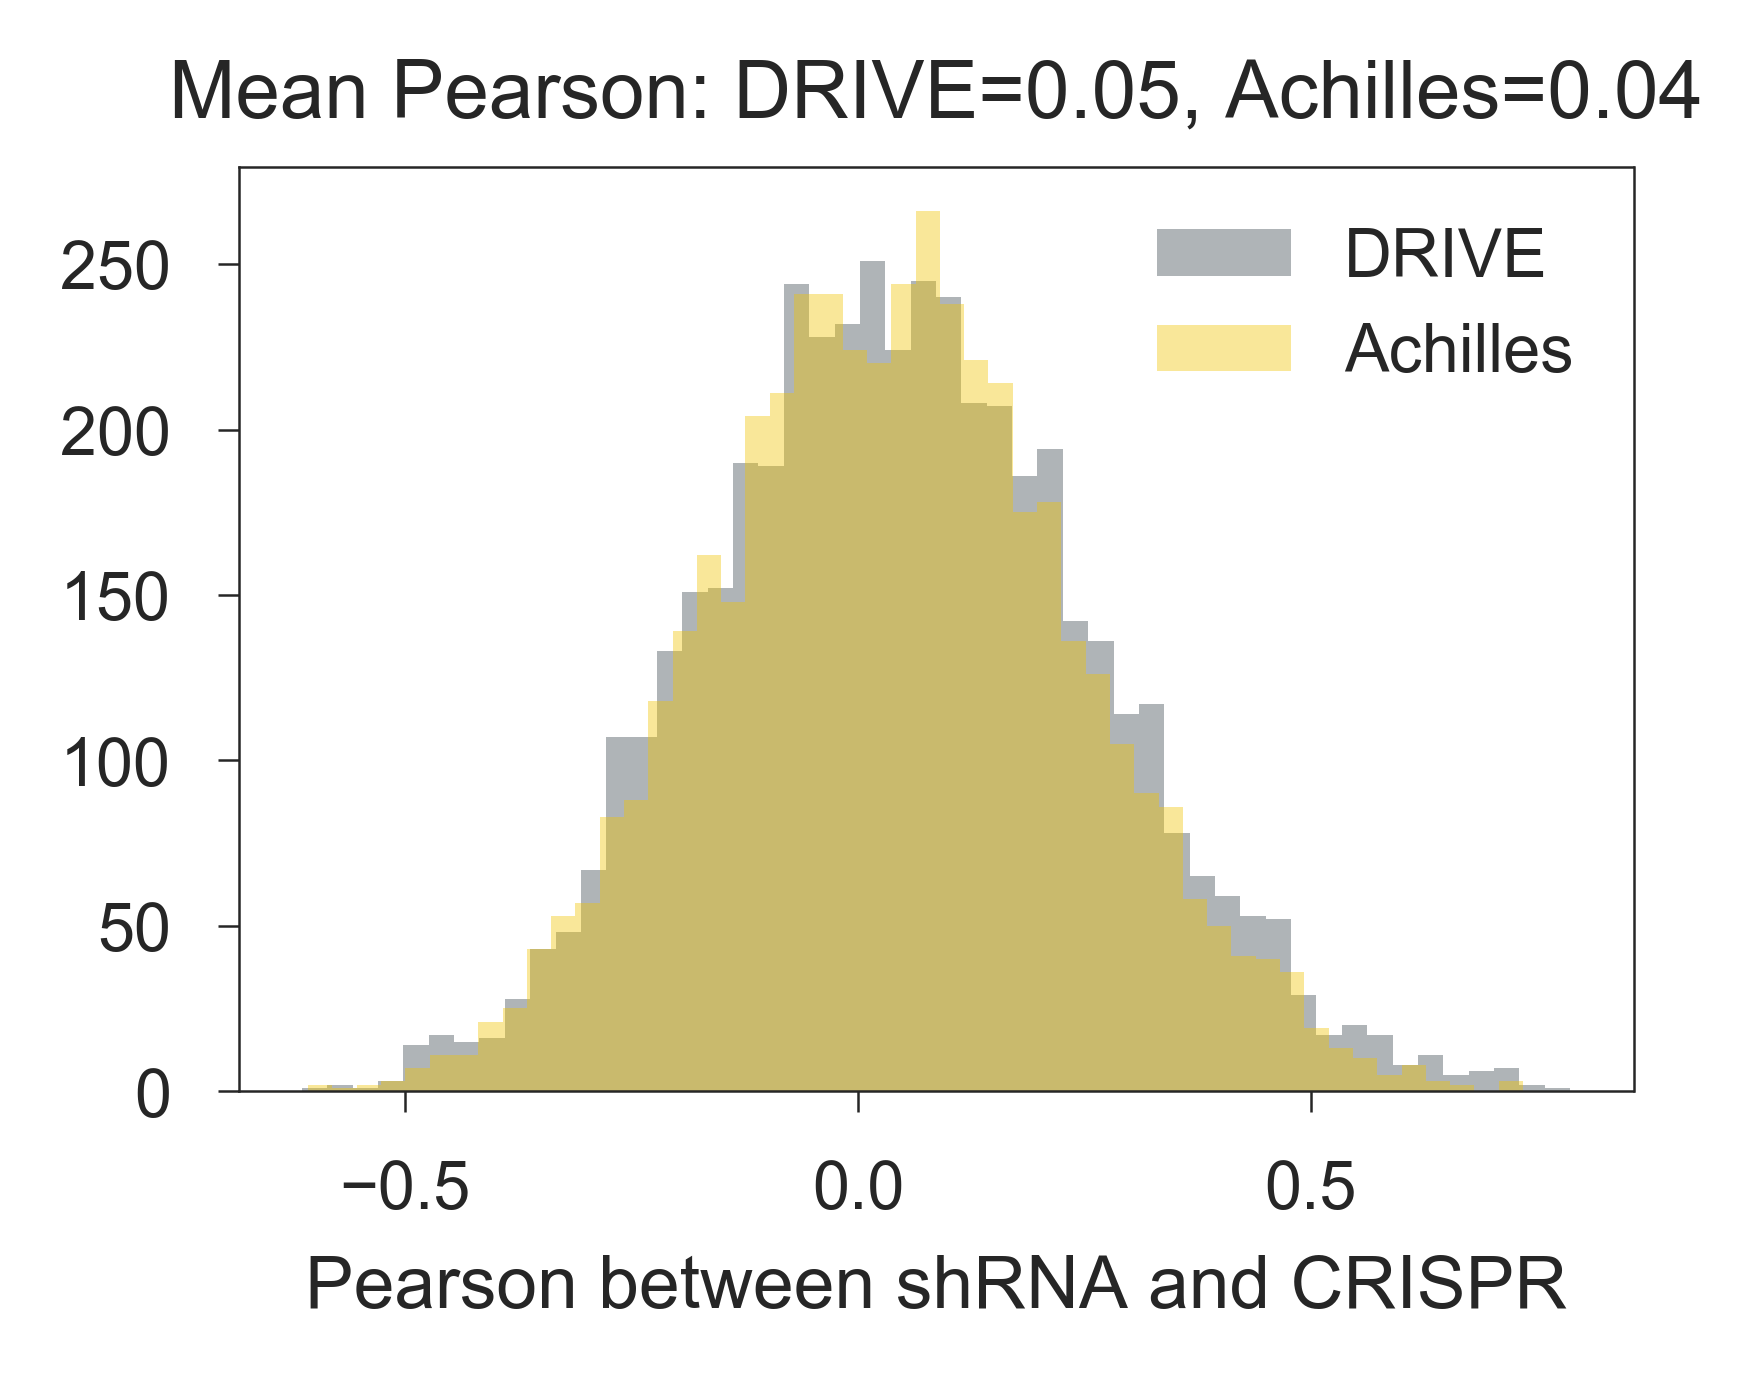
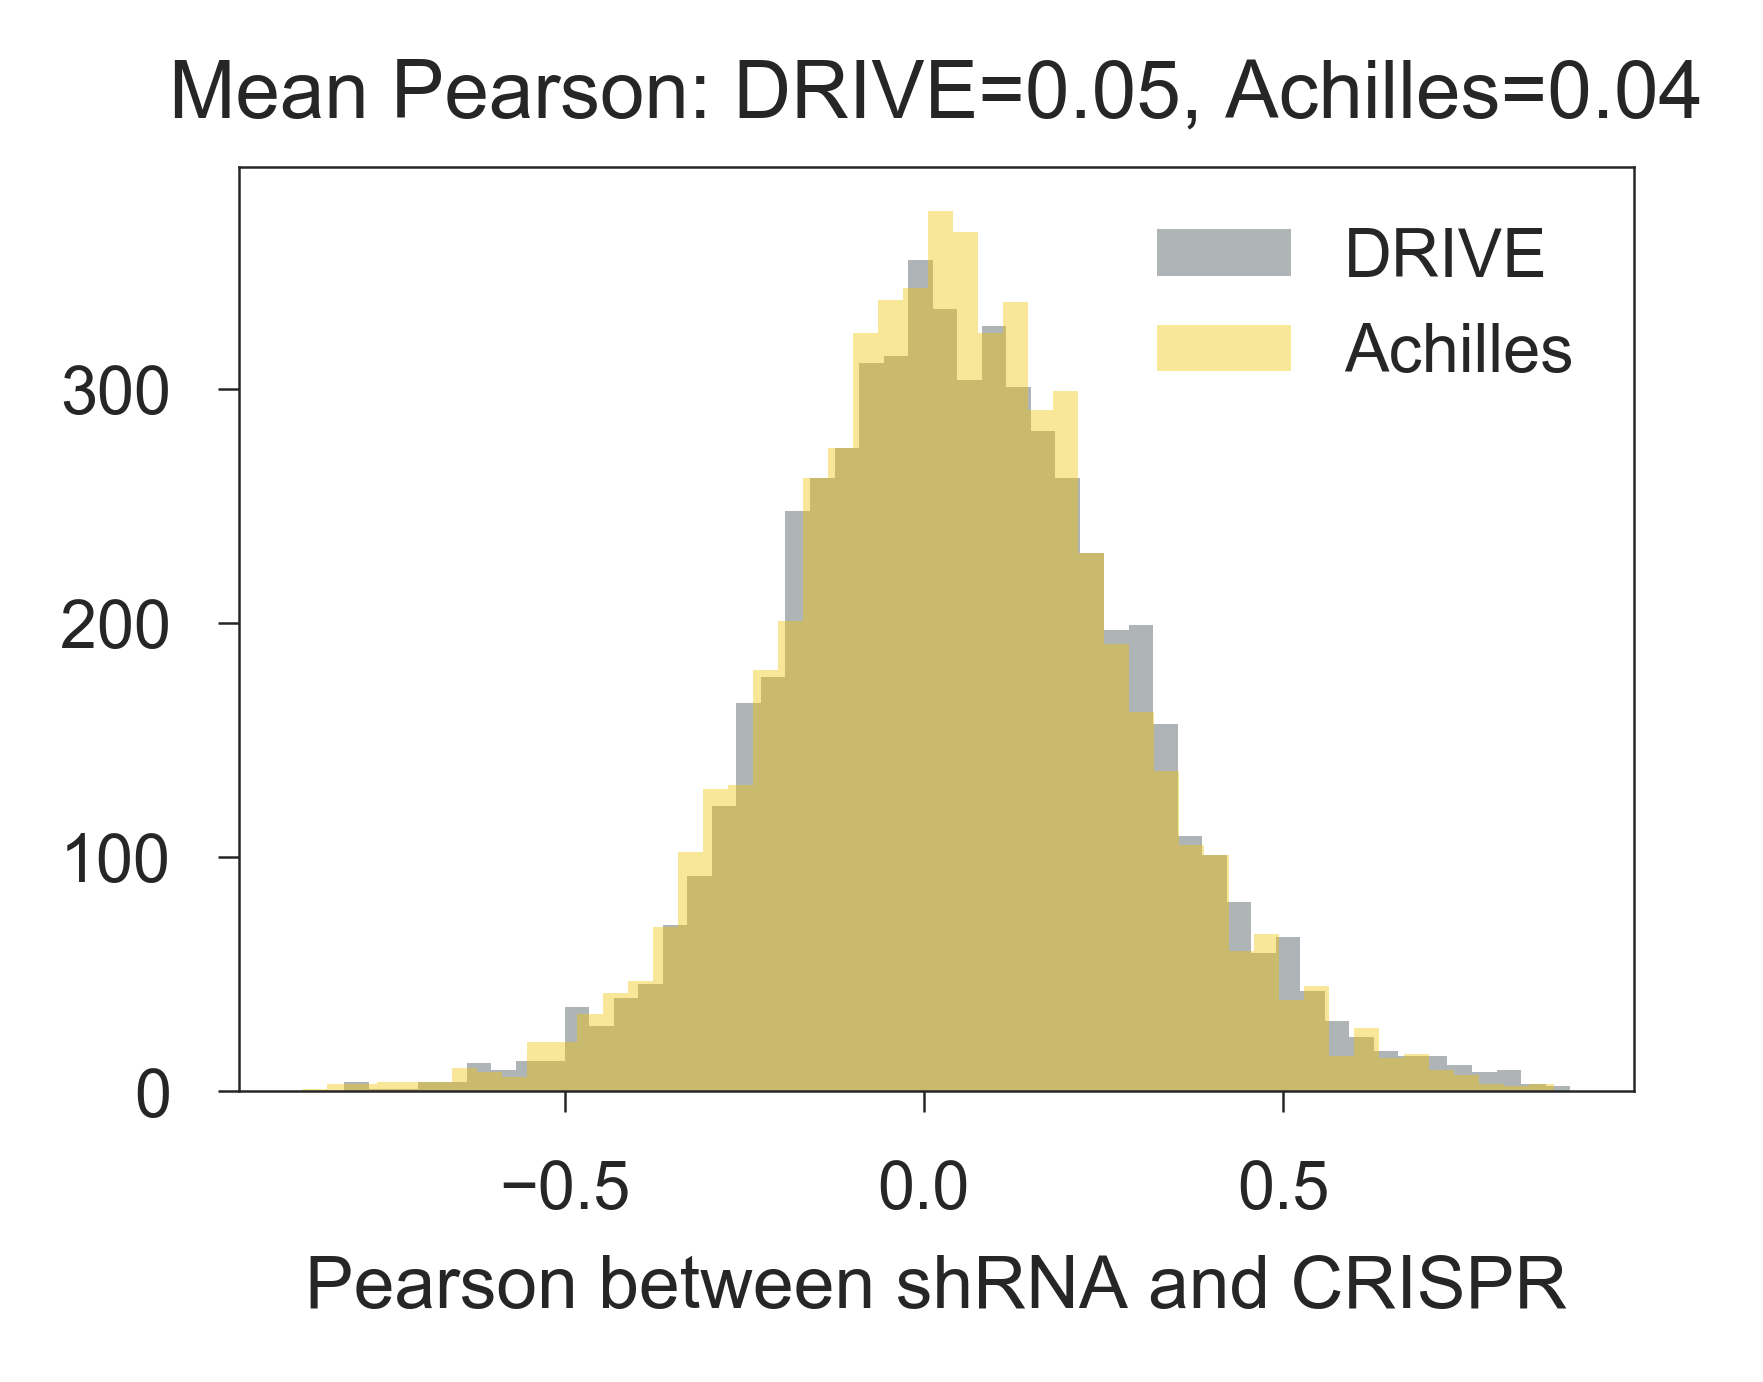
Comparison between CRISPR and shRNA

diff --git a/src/shrna_corr.py b/src/shrna_corr.py
@@ -6,23 +6,31 @@ import pandas as pd
 import seaborn as sns
 import matplotlib.pyplot as plt
 from scipy.stats.stats import pearsonr
-from scipy_sugar.stats import quantile_gaussianize
+from sklearn.metrics import roc_curve, auc
+from matplotlib.gridspec import GridSpec
+
+
+# - CCLE and GDSC overlapping
+cmap = pd.read_csv('data/ccle/CCLE_GDSC_cellLineMappoing.csv', index_col=2)
 
 # - shRNA
 # Project DRIVE
 d_drive = pd.read_csv('data/ccle/DRIVE_ATARiS_data.txt', sep='\t')
 d_drive.columns = [c.upper() for c in d_drive]
-print('Project DRIVE: ', d_drive.shape)
+
+d_drive_rsa = pd.read_csv('data/ccle/DRIVE_RSA_data.txt', sep='\t')
+d_drive_rsa.columns = [c.upper() for c in d_drive_rsa]
+print('Project DRIVE: ', d_drive_rsa.shape)
 
 # Project Achilles
 d_achilles = pd.read_csv('data/ccle/Achilles_v2.20.2_GeneSolutions.txt', sep='\t', index_col=0).drop('Description', axis=1)
 print('Project Achilles: ', d_achilles.shape)
 
-
 # - CRISPR
 crispr = pd.read_csv('data/gdsc/crispr/crispy_fold_change.csv', index_col=0)
 crispr = crispr.groupby([i.split('_')[0].replace('sg', '') for i in crispr.index]).mean()
 print('CRISPR: ', crispr.shape)
+
 
 # - Overlap
 genes, samples = set(d_drive.index).intersection(d_achilles.index), set(d_drive).intersection(d_achilles)
@@ -38,7 +46,6 @@ for g in genes:
 
     corr.append({'gene': g, 'cor': cor, 'pval': pval, 'len': df.shape[0]})
 
-    print(g)
 corr = pd.DataFrame(corr).sort_values('cor', ascending=False)
 print(corr)
 
@@ -52,28 +59,17 @@ plt.close('all')
 
 
 # - Map overlaping cell lines
-cmap = pd.read_csv('data/ccle/CCLE_GDSC_cellLineMappoing.csv', index_col=2)
-
 genes = set(d_drive.index).intersection(d_achilles.index).intersection(crispr.index)
-
 samples = set([idx for idx, val in cmap['GDSC1000 name'].iteritems() if val in crispr.columns]).intersection(d_drive).intersection(d_achilles)
 print('Overlap: ', len(genes), len(samples))
 
-d_drive, d_achilles = d_drive.loc[:, samples], d_achilles.loc[:, samples]
-d_drive.columns, d_achilles.columns = list(cmap.loc[d_drive.columns, 'GDSC1000 name']), list(cmap.loc[d_achilles.columns, 'GDSC1000 name'])
-crispr = crispr[d_drive.columns]
-
-samples = set(crispr).intersection(d_drive).intersection(d_achilles)
-print('Overlap: ', len(genes), len(samples))
-
-
-# - Correlation CRISPR
+# - Correlation CRISPR with overlap DRIVE and Achilles
 c_corr = []
 for g in genes:
     df = pd.DataFrame({
-        'drive': d_drive.loc[g, samples],
-        'achilles': d_achilles.loc[g, samples],
-        'crispr': crispr.loc[g, samples]
+        'drive': d_drive.loc[g, samples].rename(index=cmap.loc[samples, 'GDSC1000 name'].to_dict()),
+        'achilles': d_achilles.loc[g, samples].rename(index=cmap.loc[samples, 'GDSC1000 name'].to_dict()),
+        'crispr': crispr.loc[g, list(cmap.loc[samples, 'GDSC1000 name'])]
     }).dropna()
 
     d_cor, d_pval = pearsonr(df['crispr'], df['drive'])
@@ -85,7 +81,6 @@ for g in genes:
         'cor_achilles': a_cor, 'pval_achilles': a_pval,
     })
 
-    print(g)
 c_corr = pd.DataFrame(c_corr).sort_values('cor_drive', ascending=False)
 print(c_corr)
 print('Corr DRIVE: ', c_corr['cor_drive'].mean(), 'Achilles: ', c_corr['cor_achilles'].mean())
@@ -99,4 +94,96 @@ plt.title('Mean Pearson: DRIVE=%.2f, Achilles=%.2f' % (c_corr['cor_drive'].mean(
 plt.legend()
 plt.gcf().set_size_inches(3, 2)
 plt.savefig('reports/shrna_crispr_corr_hist.png', bbox_inches='tight', dpi=600)
+plt.close('all')
+
+
+# - Gene essential Achilles AROC
+samples = set([idx for idx, val in cmap['GDSC1000 name'].iteritems() if val in crispr.columns]).intersection(d_achilles)
+genes = set(crispr.index).intersection(d_achilles.index)
+print('Overlap: ', len(genes), len(samples))
+
+plot_df = pd.DataFrame({
+    'CRISPR': crispr.loc[genes, cmap.loc[samples, 'GDSC1000 name']].unstack(),
+    'shRNA': d_achilles.loc[genes, samples].rename(columns=cmap.loc[samples, 'GDSC1000 name'].to_dict()).unstack()
+}).dropna()
+plot_df['shRNA_int'] = [round(i, 0) for i in plot_df['shRNA']]
+plot_df['shRNA_int'] = plot_df['shRNA_int'].clip(-6, 6).astype(int)
+
+# Plot
+sns.set(style='ticks', context='paper', rc={'axes.linewidth': .3, 'xtick.major.width': .3, 'ytick.major.width': .3, 'xtick.major.size': 2.5, 'ytick.major.size': 2.5, 'xtick.direction': 'in', 'ytick.direction': 'in'})
+f, axs = plt.subplots(1, 2)
+
+# AROCs
+ax = axs[0]
+
+thresholds = np.arange(-6, 1)
+for c, thres in zip(sns.color_palette('Reds_r', len(thresholds)), thresholds):
+    fpr, tpr, _ = roc_curve((plot_df['shRNA'] < thres).astype(int), -plot_df['CRISPR'])
+    ax.plot(fpr, tpr, label='<%d = %.2f (AUC)' % (thres, auc(fpr, tpr)), lw=1., c=c)
+
+ax.plot((0, 1), (0, 1), 'k--', lw=.3, alpha=.5)
+ax.set_xlim(0, 1)
+ax.set_ylim(0, 1)
+ax.set_xlabel('False positive rate')
+ax.set_ylabel('True positive rate')
+ax.set_title('Classify shRNA genes with CRISPR')
+ax.legend(loc=4, title='Achilles')
+
+# Boxplots
+ax = axs[1]
+
+sns.boxplot('shRNA_int', 'CRISPR', data=plot_df, fliersize=1, palette='RdGy', notch=True)
+ax.axhline(0, ls='--', lw=.3, alpha=.5, c='black')
+ax.set_xlabel('Rounded and capped shRNA DEMETER')
+ax.set_ylabel('CRISPR log2FC')
+ax.set_title('CRISPR fold-change distributions')
+
+plt.gcf().set_size_inches(7, 3)
+plt.savefig('reports/shrna_crispr_achilles_agreement.png', bbox_inches='tight', dpi=600)
+plt.close('all')
+
+
+# - Gene essential DRIVE AROC
+samples = set([idx for idx, val in cmap['GDSC1000 name'].iteritems() if val in crispr.columns]).intersection(d_drive_rsa)
+genes = set(crispr.index).intersection(d_drive_rsa.index)
+print('Overlap: ', len(genes), len(samples))
+
+plot_df = pd.DataFrame({
+    'CRISPR': crispr.loc[genes, cmap.loc[samples, 'GDSC1000 name']].unstack(),
+    'shRNA': d_drive_rsa.loc[genes, samples].rename(columns=cmap.loc[samples, 'GDSC1000 name'].to_dict()).unstack()
+}).dropna()
+plot_df['shRNA_int'] = [round(i, 0) for i in plot_df['shRNA']]
+plot_df['shRNA_int'] = plot_df['shRNA_int'].clip(-6, 6).astype(int)
+
+# Plot
+sns.set(style='ticks', context='paper', rc={'axes.linewidth': .3, 'xtick.major.width': .3, 'ytick.major.width': .3, 'xtick.major.size': 2.5, 'ytick.major.size': 2.5, 'xtick.direction': 'in', 'ytick.direction': 'in'})
+f, axs = plt.subplots(1, 2)
+
+# AROCs
+ax = axs[0]
+
+thresholds = np.arange(-6, 0)
+for c, thres in zip(sns.color_palette('Reds_r', len(thresholds)), thresholds):
+    fpr, tpr, _ = roc_curve((plot_df['shRNA'] < thres).astype(int), -plot_df['CRISPR'])
+    ax.plot(fpr, tpr, label='<%d = %.2f (AUC)' % (thres, auc(fpr, tpr)), lw=1., c=c)
+
+ax.plot((0, 1), (0, 1), 'k--', lw=.3, alpha=.5)
+ax.set_xlim(0, 1)
+ax.set_ylim(0, 1)
+ax.set_xlabel('False positive rate')
+ax.set_ylabel('True positive rate')
+ax.set_title('Classify shRNA genes with CRISPR')
+ax.legend(loc=4, title='DRIVE')
+
+# Boxplots
+ax = axs[1]
+
+sns.boxplot('shRNA_int', 'CRISPR', data=plot_df, fliersize=1, palette='Reds_r', notch=True)
+ax.axhline(0, ls='--', lw=.3, alpha=.5, c='black')
+ax.set_xlabel('Rounded and capped shRNA RSA')
+ax.set_ylabel('CRISPR log2FC')
+ax.set_title('CRISPR fold-change distributions')
+
+plt.gcf().set_size_inches(7, 3)
+plt.savefig('reports/shrna_crispr_drive_agreement.png', bbox_inches='tight', dpi=600)
 plt.close('all')
